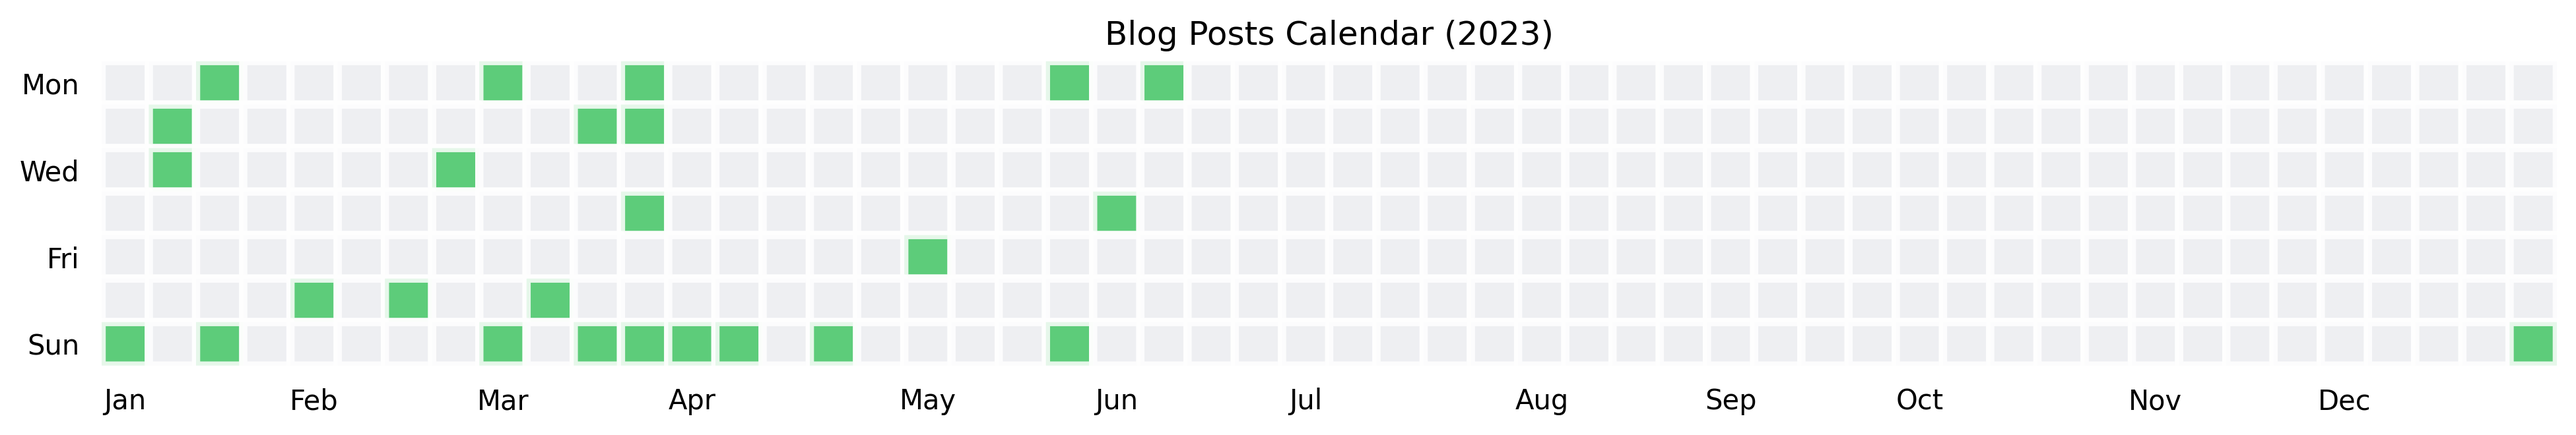
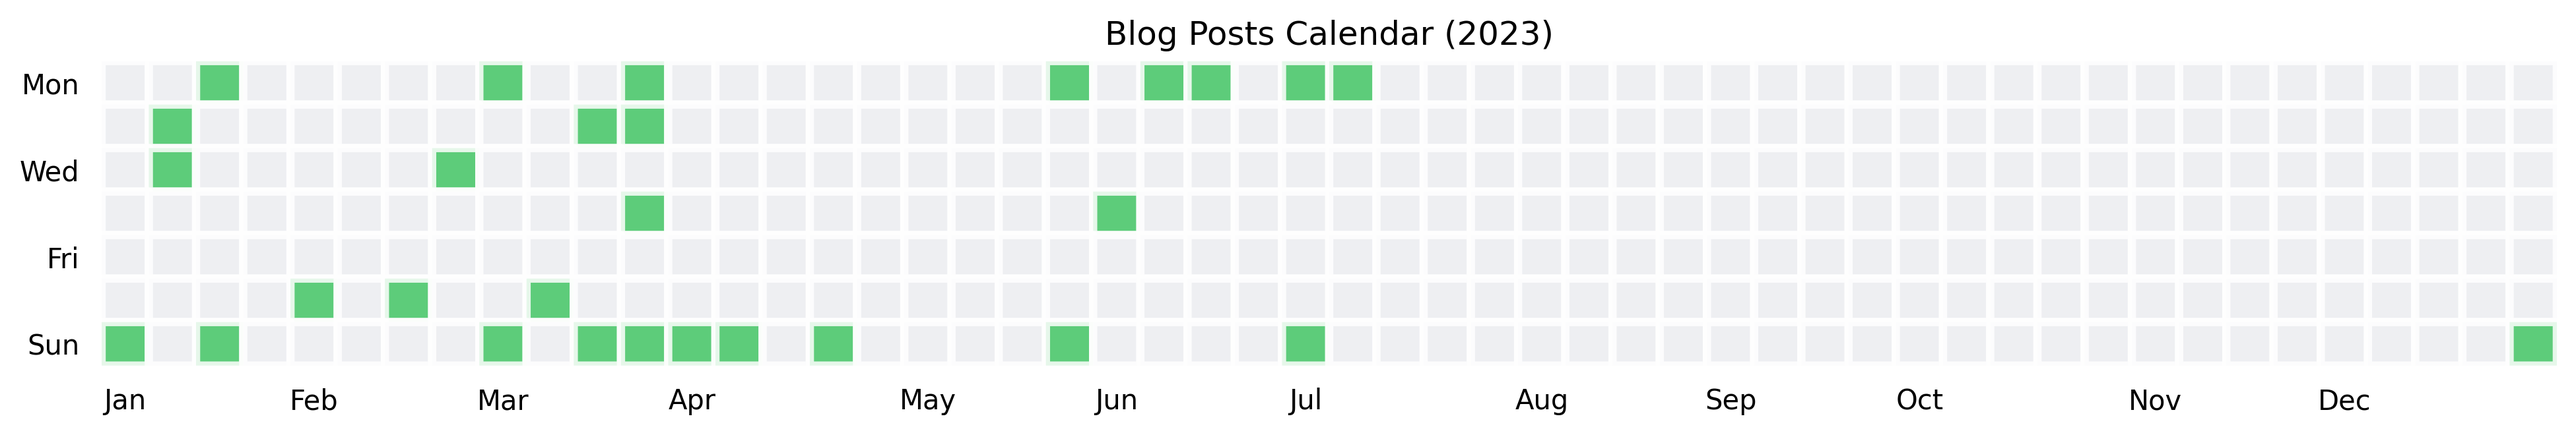
added virtual environments how it works

Changed region(s): [[0.465, 0.1515, 0.558, 0.2424], [0.496, 0.7273, 0.527, 0.8485], [0.341, 0.5455, 0.372, 0.6364]]

diff --git a/web/_includes/blog_posts.html b/web/_includes/blog_posts.html
@@ -2,41 +2,41 @@
 {% assign posts = site.posts %}
 
 <div class="row">
-    <div class="col-md-9 col-12">
-        <div class="row row-cols-1 row-cols-sm-1 row-cols-md-2 row-cols-lg-3 row-cols-xl-4 g-4">
-            {% for post in posts limit:4 %}
-            <div class="col">
-            <div class="card p-0 h-100">
-            <a href="{{ post.url }}">
-             <img src="{{ post.cover }}" class="card-img-top" alt="..."></a>
-     
-            <div class="card-body">
-            <h5 class="card-title">{{ post.title }}</h5>
-            <p class="card-text ">{{ post.excerpt }}</p>
+<div class="col-md-9 col-12">
+    <div class="row row-cols-1 row-cols-sm-1 row-cols-md-2 row-cols-lg-3 row-cols-xl-4 g-4">
+        {% for post in posts limit:4 %}
+        <div class="col">
+        <div class="card p-0 h-100">
+        <a href="{{ post.url }}">
+            <img src="{{ post.cover }}" class="card-img-top" alt="..."></a>
+    
+        <div class="card-body">
+        <h5 class="card-title">{{ post.title }}</h5>
+        <p class="card-text ">{{ post.excerpt }}</p>
+        <div class="row">
             <div class="row">
-                <div class="row">
-            <p class="card-text small">{{ post.date | date: "%-d %B %Y" }} 
-                by
-                {{ post.author }} </p>
-                </div>
-            <div class="m-0 px-2">
-                {% assign tags = post.tags %}
-                {% for tag in tags %}
-                <a class="badge bg-ocre small m-1 text-decoration-none">{{tag}}</a>
-                {% endfor %}
+        <p class="card-text small">{{ post.date | date: "%-d %B %Y" }} 
+            by
+            {{ post.author }} </p>
             </div>
-            </div> <!-- row -->
-            </div> <!-- col-md-8 -->
-            <div class="card-footer">
-                <a class="btn btn-primary" href="{{post.url}}">Read</a>
-            </div>
-            </div> <!-- card -->
-        </div> <!-- col -->
+        <div class="m-0 px-2">
+            {% assign tags = post.tags %}
+            {% for tag in tags %}
+            <a class="badge bg-ocre small m-1 text-decoration-none">{{tag}}</a>
             {% endfor %}
-            </div>
-    </div>
-    <div class="col-12 col-md-3">
-        {% include blog_archive.html %}
-    </div>
+        </div>
+        </div> <!-- row -->
+        </div> <!-- col-md-8 -->
+        <div class="card-footer">
+            <a class="btn btn-primary" href="{{post.url}}">Read</a>
+        </div>
+        </div> <!-- card -->
+    </div> <!-- col -->
+        {% endfor %}
+        </div>
+</div>
+<div class="col-12 col-md-3">
+    {% include blog_archive.html %}
+</div>
 </div>
 

diff --git a/web/_layouts/blog_new.html b/web/_layouts/blog_new.html
@@ -1,0 +1,47 @@
+---
+layout: content
+---
+
+{% include breadcrumbs.html %}
+
+<img src="{{page.cover}}" class="cover rounded my-3">
+<h1>{{page.title}}</h1>
+<h2>{{page.subtitle}}</h2>
+<p>{{page.excerpt}}</p>
+
+{% for tag in page.tags %}
+<span class="float-end mx-1 bg-ocre black badge rounded-pill text-bg-success">{{tag}}</span>
+{% endfor %}
+
+</span>
+<p class="orange"><i class="fa-regular fa-calendar"></i> {{page.date | date: "%-d %B %Y" }} by <i class="fa-regular fa-user"></i> {{ page.author}}
+| Share this article on <span class=""><a href="https://twitter.com/intent/tweet?text=I found this cool KevsRobots Article on {{page.title}}:%0A&url={{site.url}}{{page.url}}%0A&hashtags=robotics" data-toggle="tooltip" title="Share on Twitter"><i class="fab fa-twitter"></i></a>
+    <a href="https://mastodon.social?text=I found this cool KevsRobots Article on {{page.title}}:%0A&url={{site.url}}{{page.url}}%0A&hashtags=robotics" data-toggle="tooltip" title="Share on Mastodon"><i class="fab fa-mastodon"></i></a></span>
+</p>
+<hr />
+<div class="row">
+<div class="col-sm-12 col-md-2">
+
+<p>TOC</p>
+# Table of Contents
+{:.no_toc}
+
+{:toc}
+* toc
+
+
+</div>
+<div class="col-sm-12 col-md-8">
+<article>
+{{content}}
+</article>
+</div>
+<div class="col-sm-12 col-md-3">
+{% include blog_profile.html %}
+
+<hr>
+{% include blog_archive.html %}
+</div>
+</div>
+
+

diff --git a/web/_includes/blog_profile.html b/web/_includes/blog_profile.html
@@ -7,9 +7,9 @@
 <p class="mt-3"><b>{{ profile.name }}</b></p>
 <p><i>{{profile.profile}}</i></p>
 <p><b>Social Links:</b></p>
-<ul class="list-group "> 
+<ul class="list-group px-0"> 
     {% for social in socials %}
-    <li class="list-group-item small"><i class="{{social.icon}} mx-2 small"></i>{{social.site}} - <a href="{{social.link}}" class="small">{{social.name}}</a></li>
+    <li class="list-group-item small px-1 mx-0"><i class="{{social.icon}} mx-1 small"></i>{{social.site}} - <a href="{{social.link}}" class="small">{{social.name}}</a></li>
     {% endfor %}
 </ul>
 </div>

diff --git a/web/_includes/welcome_page.html b/web/_includes/welcome_page.html
@@ -5,6 +5,6 @@
     <div class="col-12">{% include how_it_works_section.html %}</div>
     <div class="col-12">{% include robots_section.html %}</div>
     <div class="col-12">{% include projects_section.html %}</div>
-    <div class="col-12">{% include reviews_section.html %}</div>
     <div class="col-12">{% include courses_section.html %}</div>
+    <div class="col-12">{% include reviews_section.html %}</div>
 </div>

diff --git a/web/_includes/reviews_section.html b/web/_includes/reviews_section.html
@@ -1,4 +1,4 @@
-<div class="container-fluid rounded-1 pb-3 m-0 p-0 pt-3" style="background-image: url('/assets/img/reviews_background.jpg');">
+<div class="container-fluid rounded-1 pb-3 mt-3 m-0 p-0 pt-3" style="background-image: url('/assets/img/reviews_background.jpg');">
     
     <div class="row row-sm-column-reverse m-0 p-0 row-cols-2 row-col-sm-1">
         <div class="col-12 col-md-6 ">

diff --git a/web/_layouts/blog_index.html b/web/_layouts/blog_index.html
@@ -4,9 +4,9 @@ title: Blog Index
 ---
 
 <div class="px-3 m-3">
-    {% include breadcrumbs.html %}
-    <h1>{{page.title}}</h1>
-    <h5>{{page.description}}</h5>
-    <hr />
+{% include breadcrumbs.html %}
+<h1>{{page.title}}</h1>
+<h5>{{page.description}}</h5>
+<hr />
 {{content}}
 </div>

diff --git a/web/_how_it_works/virtual_environments.md b/web/_how_it_works/virtual_environments.md
@@ -1,0 +1,69 @@
+---
+layout: blog
+title: Python Virtual Environments
+short_title: How it works - Python Virtual Environments
+short_description: Learn about Python Virtual Environments
+date: 2023-07-12
+author: Kevin McAleer
+excerpt: 
+cover: /assets/img/how_it_works/virtual_environments.png
+tags:
+ - Python
+ - Virtual Environment
+---
+
+A Python `virtual environment` is a self-contained "bubble" where you can install and manage Python packages (which are essentially libraries or tools written in Python that you can use in your own projects) without affecting other projects on your computer.
+
+![](/assets/img/how_it_works/virtual_environments.png){:class="img-fluid w-100"}
+
+---
+
+When you're working on a Python project, you might need to use certain versions of Python packages. However, if you were to install those packages globally (i.e., for the entire system), you might run into issues where one project needs one version of a package, and another project needs a different version.
+
+![](/assets/img/how_it_works/virtual_environments03.jpg){:class="img-fluid w-100"}
+
+To prevent these conflicts, you can use a Python virtual environment, which allows you to isolate the Python interpreter, libraries, and scripts used in a specific project. This means you can have multiple environments on your computer, each with different versions of Python and its packages, without them interfering with each other.
+
+Think of it as a sandbox, where you can play around with different packages and their versions without worrying about messing up your other sandboxes.
+
+You create a virtual environment using tools like `venv` (which is built into Python itself) or `virtualenv`, `conda`, `pipenv`, etc. After creating a virtual environment, you can then "activate" it, which basically means you're telling your computer to use the Python interpreter and packages from that environment, rather than the global Python interpreter and packages.
+
+---
+
+## Create a Virtual Environment
+
+![](/assets/img/how_it_works/virtual_environments04.jpg){:class="img-fluid w-100"}
+
+To create a Virtual Environment, type the following into your terminal:
+
+``` bash
+python3 -m venv venv
+```
+
+---
+
+## Activate the environment
+
+To activate a Virtual Environment, type the following into your terminal:
+
+![](/assets/img/how_it_works/virtual_environments05.jpg){:class="img-fluid w-100"}
+
+``` bash
+source venv/bin/activate
+```
+
+---
+
+## Deactivate the environment
+
+To deactivate a Virtual Environment, type the following into your terminal:
+
+``` bash
+deactivate
+```
+
+---
+
+Using virtual environments is considered a best practice in Python development, because it helps keep your projects organized and prevents issues with package versions and dependencies.
+
+---
